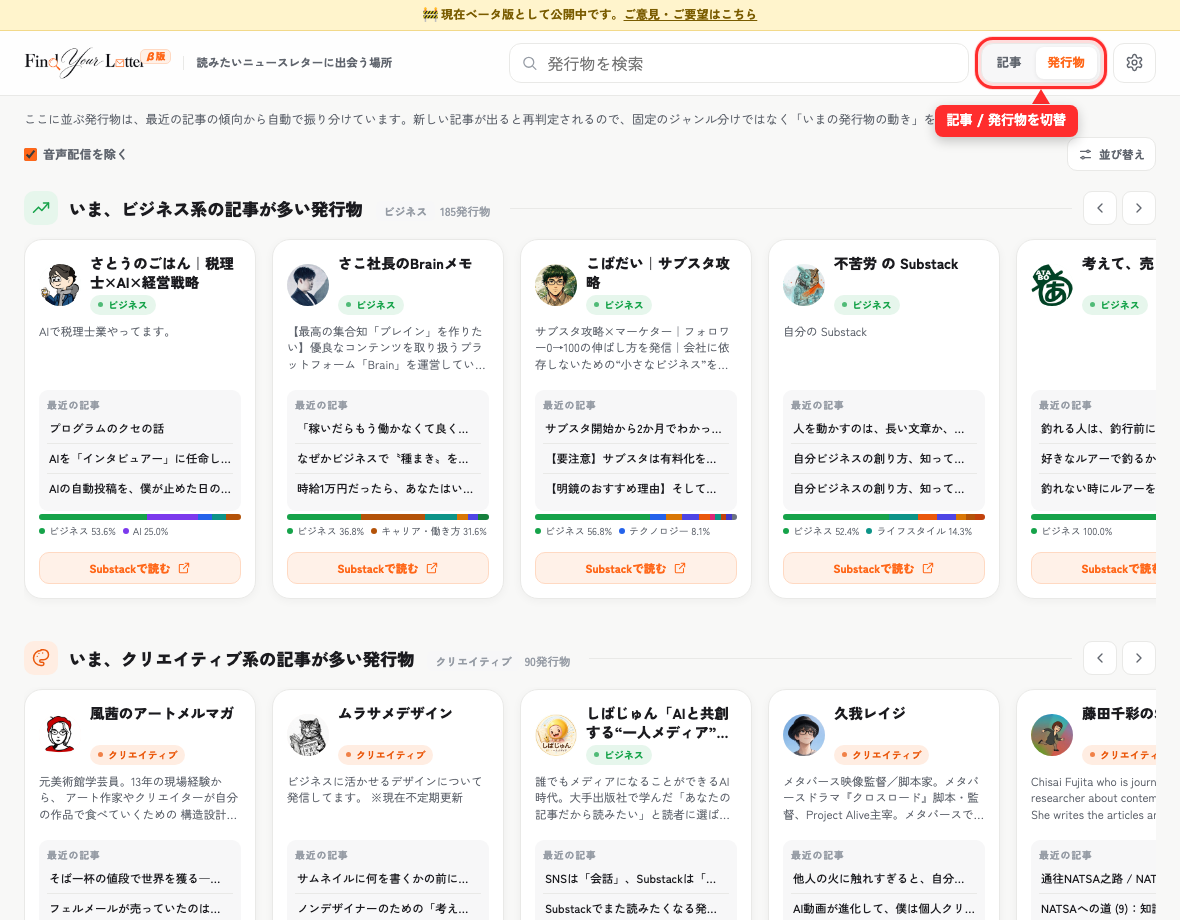
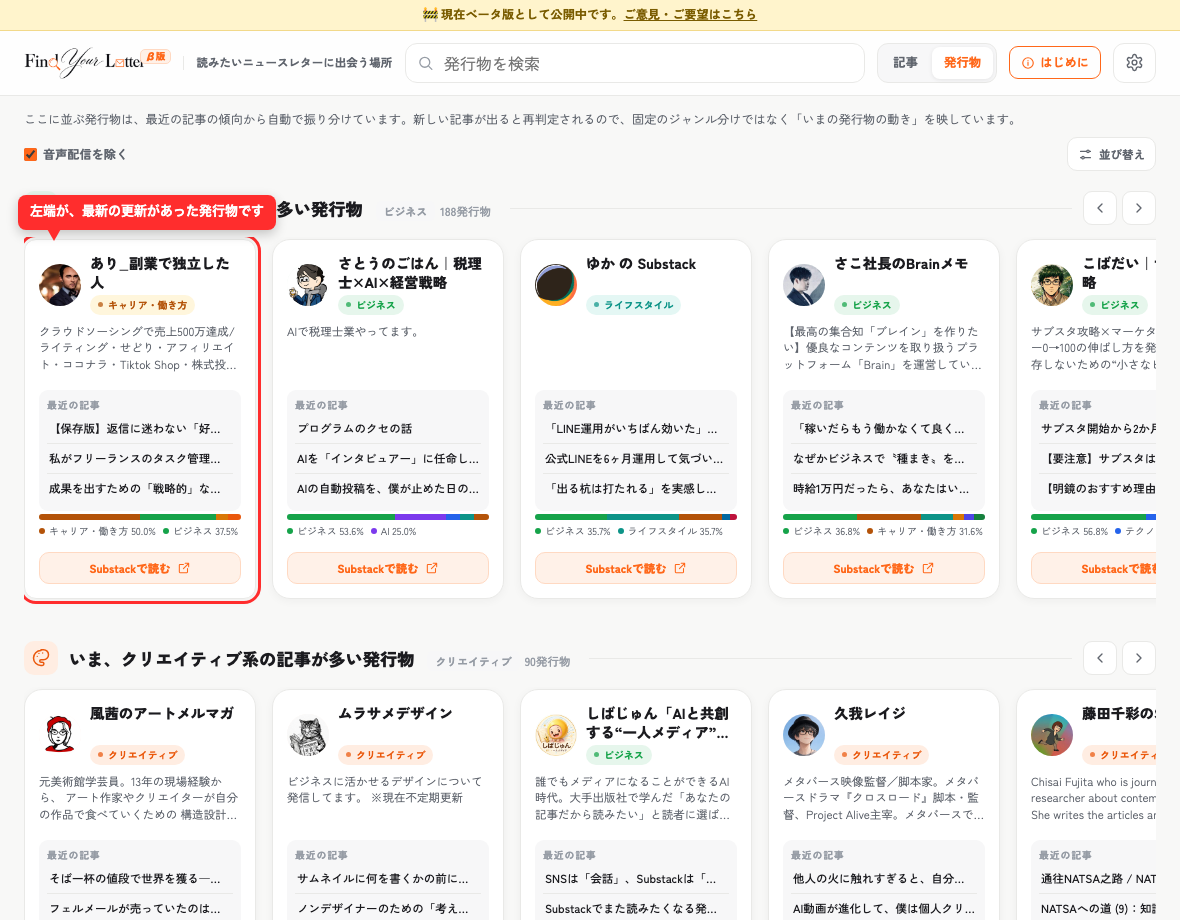
start.html: 発行物スクショに「左端=最新更新の発行物」注釈(赤矢印)追加＋ヒーローの記事/発行物ボタンを非表示(末尾CTAは維持)

diff --git a/docs/start.html b/docs/start.html
@@ -185,16 +185,6 @@ footer a{color:var(--sub)}
     <p class="eyebrow">ABOUT &amp; GUIDE</p>
     <h1><span class="hl">読みたい日本語ニュースレターを、</span><span class="hl">カテゴリの棚から見つける。</span></h1>
     <p>Find Your Letter は、日本語の Substack ニュースレターをカテゴリごとに集めたキュレーションポータルです。記事から探す・発行物から探す、2つの見方で、まだ知らない書き手に出会えます。</p>
-    <div class="cta-2">
-      <a class="primary" href="./">
-        <svg viewBox="0 0 24 24" fill="none" stroke="currentColor" stroke-width="1.9"><rect x="4" y="4" width="16" height="16" rx="2"/><path d="M8 9h8M8 13h8M8 17h5"/></svg>
-        記事から探す
-      </a>
-      <a class="ghost" href="./#writers">
-        <svg viewBox="0 0 24 24" fill="none" stroke="currentColor" stroke-width="1.9"><circle cx="9" cy="8" r="3"/><path d="M3 20v-1.5a4 4 0 0 1 4-4h4a4 4 0 0 1 4 4V20M16 5.2a3 3 0 0 1 0 5.6"/></svg>
-        発行物から探す
-      </a>
-    </div>
     <span class="hero-shot"><img src="assets/guide/guide_hero.png" alt="Find Your Letter のトップ画面" loading="lazy"></span>
   </section>
 